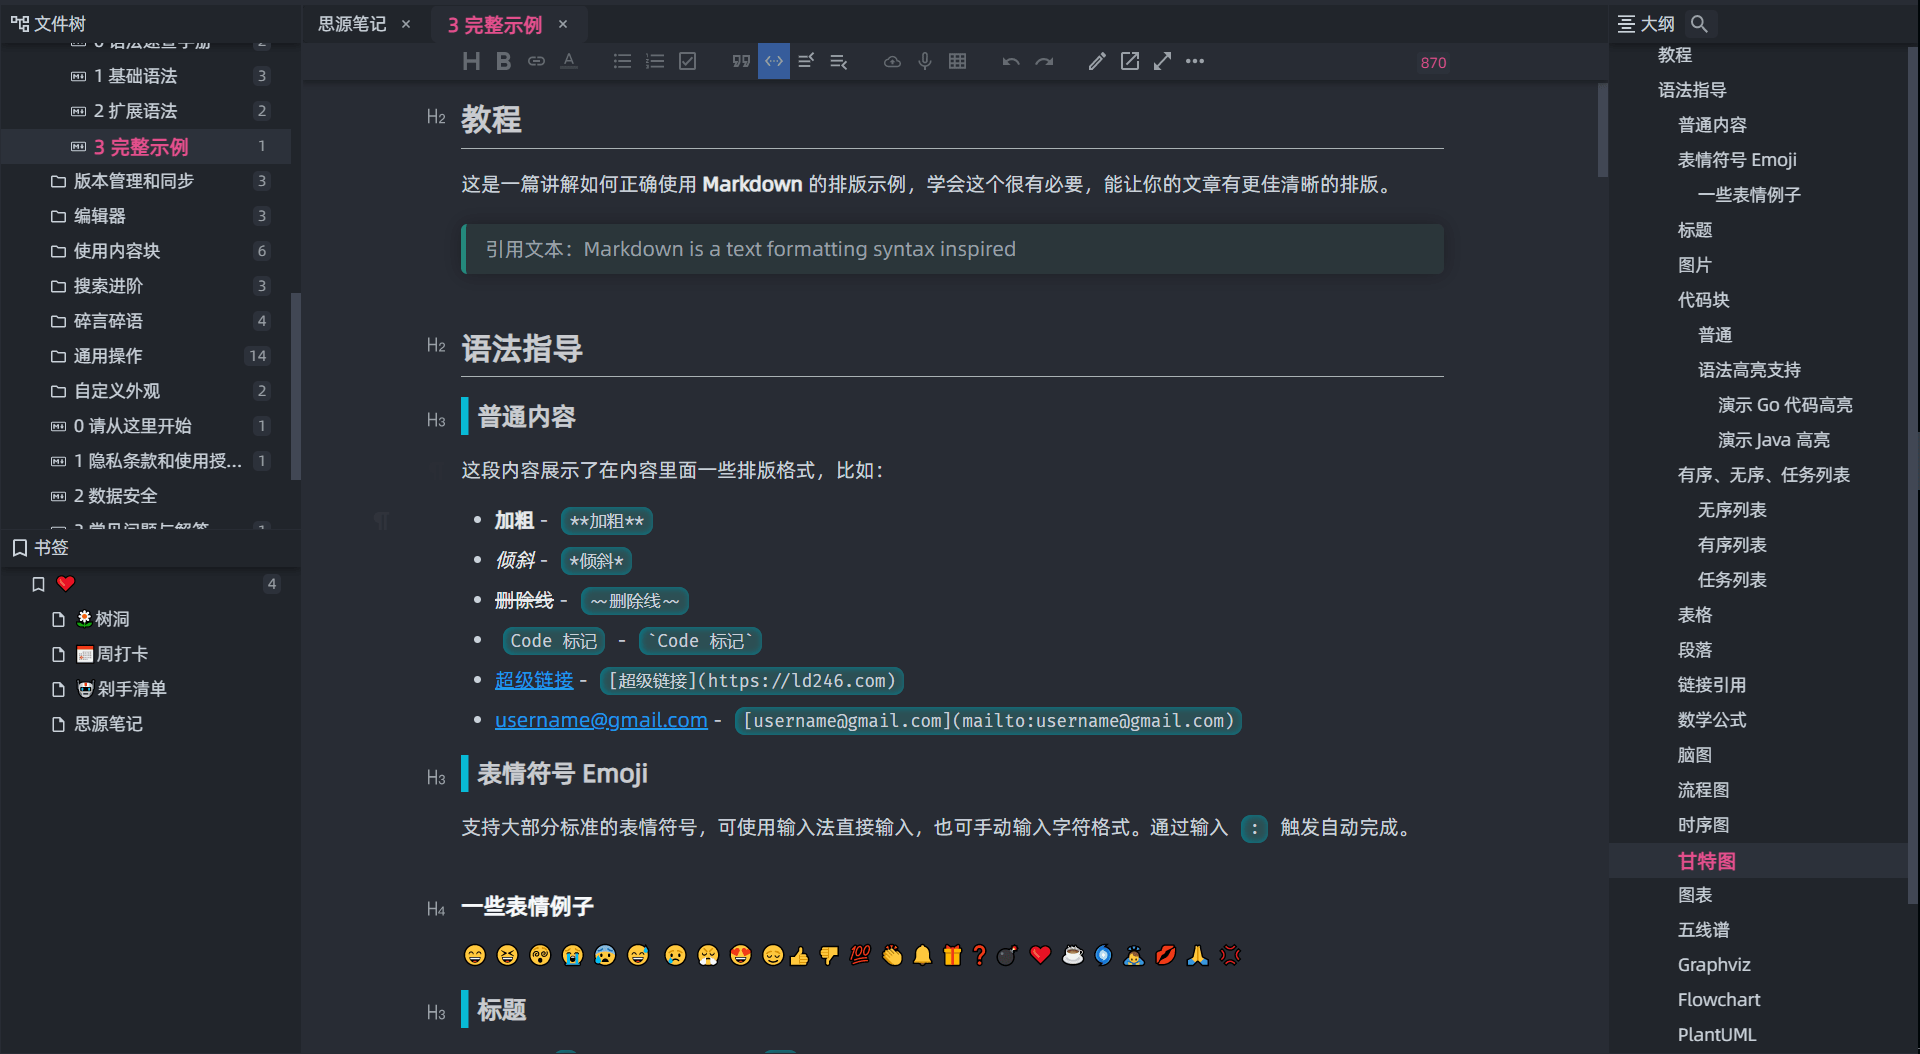
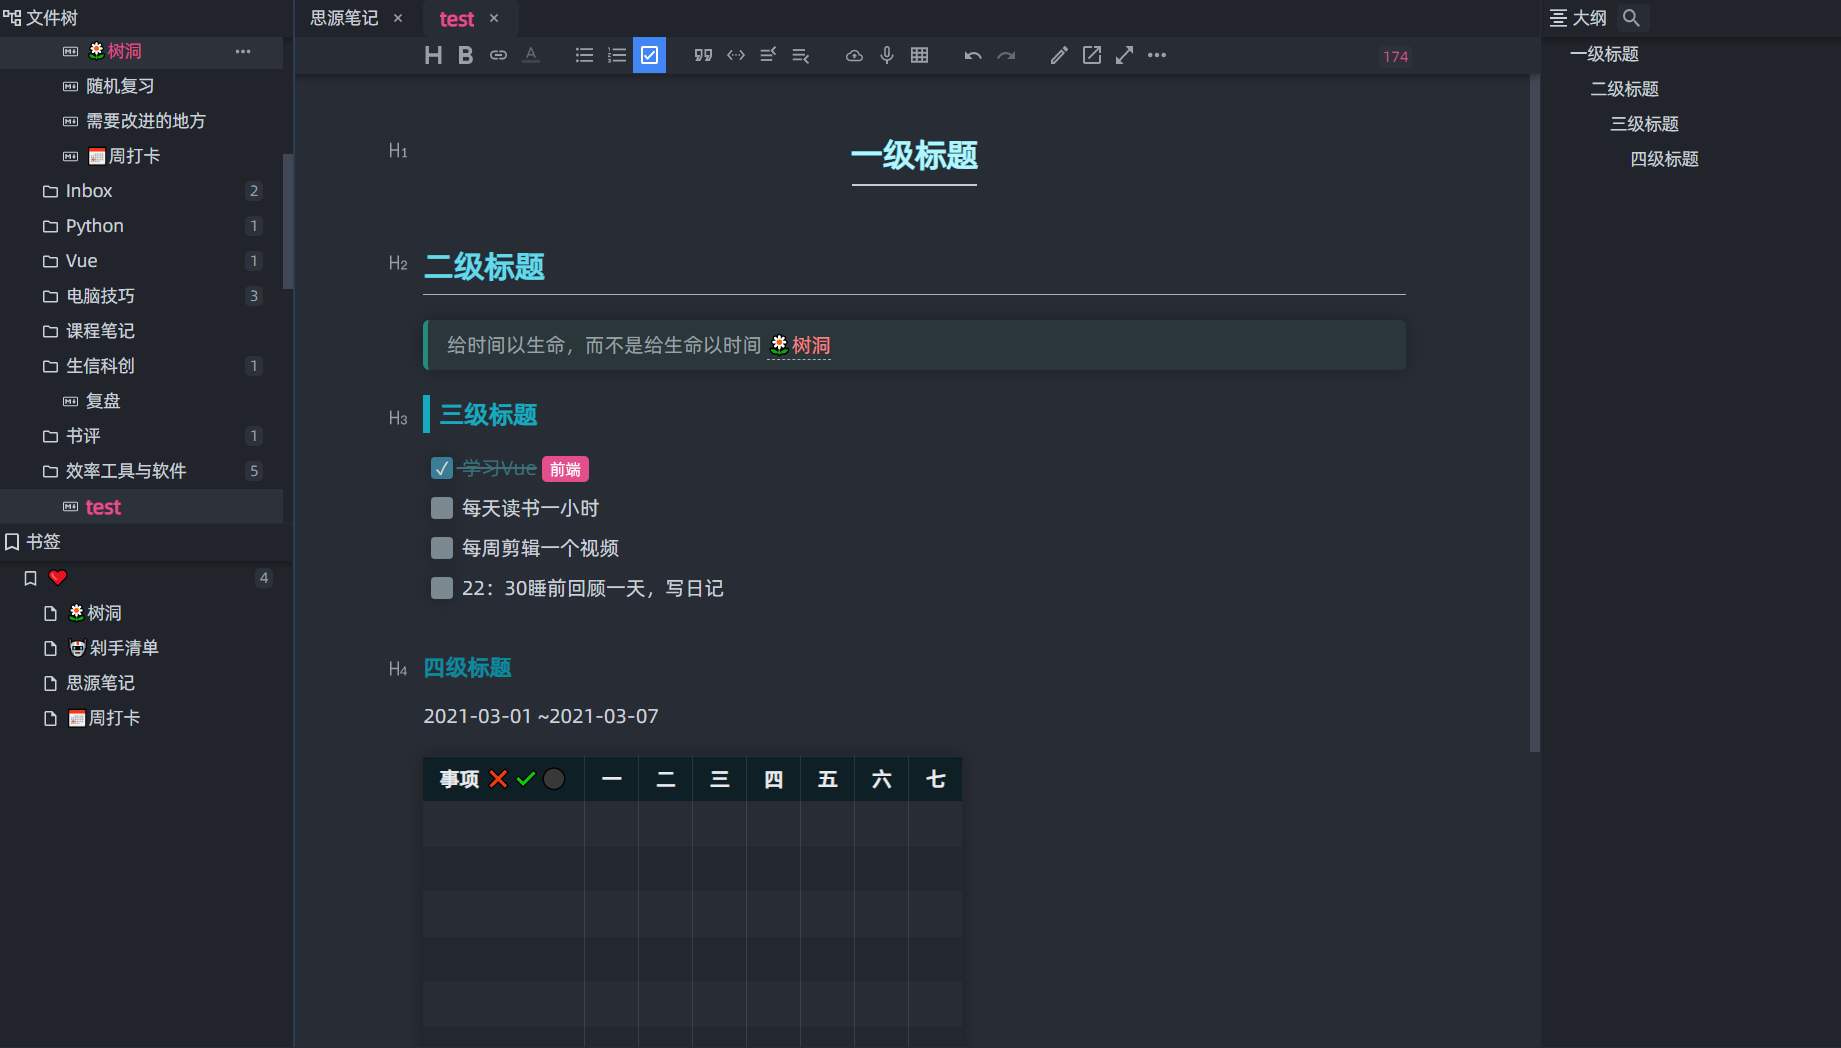
v0.1.3

diff --git a/theme.css b/theme.css
@@ -51,6 +51,7 @@
     /* 提示 */
     --b3-tooltips-color: rgba(70, 72, 76, 0.86);
     --b3-text-border-color: rgb(170, 178, 180);
+    /* 表格 */
     --b3-table-border-color: rgba(255, 255, 255, 0.1);
     --b3-table-th-color: rgb(14, 31, 37);
     --b3-table-trn-color: rgb(40, 45, 52);
@@ -178,7 +179,7 @@
 blockquote {
     border-left: 0.25em solid rgb(36 138 125) !important;
     border-radius: 5px;
-    background-color: rgb(67 138 106 / 10%) !important;
+    background-color: #2b363a !important;
     padding-left: 15px !important;
     box-shadow: var(--b3-card-shadow);
 }
@@ -188,6 +189,7 @@ blockquote {
     margin-top: 20px !important;
     margin-bottom: 20px !important;
 }
+/* 表格 */
 .vditor-reset table {
     box-shadow: var(--b3-card-shadow);
 }
@@ -365,29 +367,31 @@ div[data-type='navigation'] .b3-list-item--focus,
 
 /* 标题样式 */
 .vditor-reset h1 {
-    border-bottom: 1px solid var(--b3-text-border-color) !important;
+    text-align: center;
+    /* border-bottom: 1px solid var(--b3-text-border-color) !important; */
     font-size: 26px;
-    color: #f5f7fa;
+    color: #aff6ff;
 }
-.vditor-reset h2 {
-    /* text-align: center; */
-    border-bottom: 1px solid var(--b3-text-border-color) !important;
-    font-size: 24.8px;
-    color: #c9cbcf;
-}
-/* .vditor-reset h2:after {
+.vditor-reset h1:after {
     content: '';
     display: block;
     margin: 0.2em auto 0;
     width: 100px;
     height: 2px;
     border-bottom: 2px solid #c9cbcf;
-} */
+}
+.vditor-reset h2 {
+    /* text-align: center; */
+    border-bottom: 1px solid var(--b3-text-border-color) !important;
+    font-size: 24.8px;
+    color: #66d9e8;
+}
+
 .vditor-reset h3 {
     font-size: 20px;
-    color: #c9cbcf;
+    color: #15aabf;
     line-height: 20px;
-    border-left: 6px solid #00ddffcc;
+    border-left: 6px solid #15aabf;
     /* border-bottom: 1px solid var(--b3-text-border-color) !important; */
     text-align: justify;
     padding: 5px 0 5px 7px;
@@ -395,15 +399,15 @@ div[data-type='navigation'] .b3-list-item--focus,
 
 .vditor-reset h4 {
     font-size: 18px;
-    color: #f5f7fa;
+    color: #03a1b9cc;
 }
 .vditor-reset h5 {
     font-size: 16px;
-    color: #f5f7fa;
+    color: #03a1b9cc;
 }
 .vditor-reset h6 {
     font-size: 16px;
-    color: #f5f7fa;
+    color: #03a1b9cc;
 }
 
 /* 标题样式End */
@@ -508,10 +512,9 @@ div[data-type='navigation'] .b3-list-item--focus,
 /* 标签样式end */
 
 /* Markdown图表样式 */
-.vditor-reset .language-flowchart
-{
+.vditor-reset .language-flowchart {
     text-align: center;
-    background-color: #585a5c;
+    background-color: #a5b3c7;
 }
 .vditor-reset .language-plantuml {
     text-align: center;

diff --git a/Readme.md b/Readme.md
@@ -1,15 +1,15 @@
 # 思源主题: mixture(dark)
-本主题主要基于Simple One Dark，借鉴Pure Dark和Lavender进行修改
+本主题主要基于[Atom One Dark](https://github.com/zqhjl/Siyuan-Atom-OneDark)，借鉴Pure Dark和Lavender等其他主题进行修改
 ![preview](preview.png)
 
 ## v0.1.3
-- 修改字体：主字体为阿里巴巴普惠体，代码字体为Fira Code
-- 更改h2和h3标题，将鲜艳颜色去除
+- 更改字体：主字体为阿里巴巴普惠体，代码字体为Fira Code
+- 更改标题，统一色系为天蓝色
 - 更改引用块样式
 - 更改标签页样式，去除标签页前的文件图标样式
-- 图片添加阴影
-- 超链接hover颜色更改
-- 块引用样式更改
+- 更改超链接hover颜色
+- 更改块引用样式
+- 添加图片阴影
 ## v0.1.2
 - theme.css 初步整理
 - 标题样式修改,h3标题增加左边框，h4-h6颜色为白色
